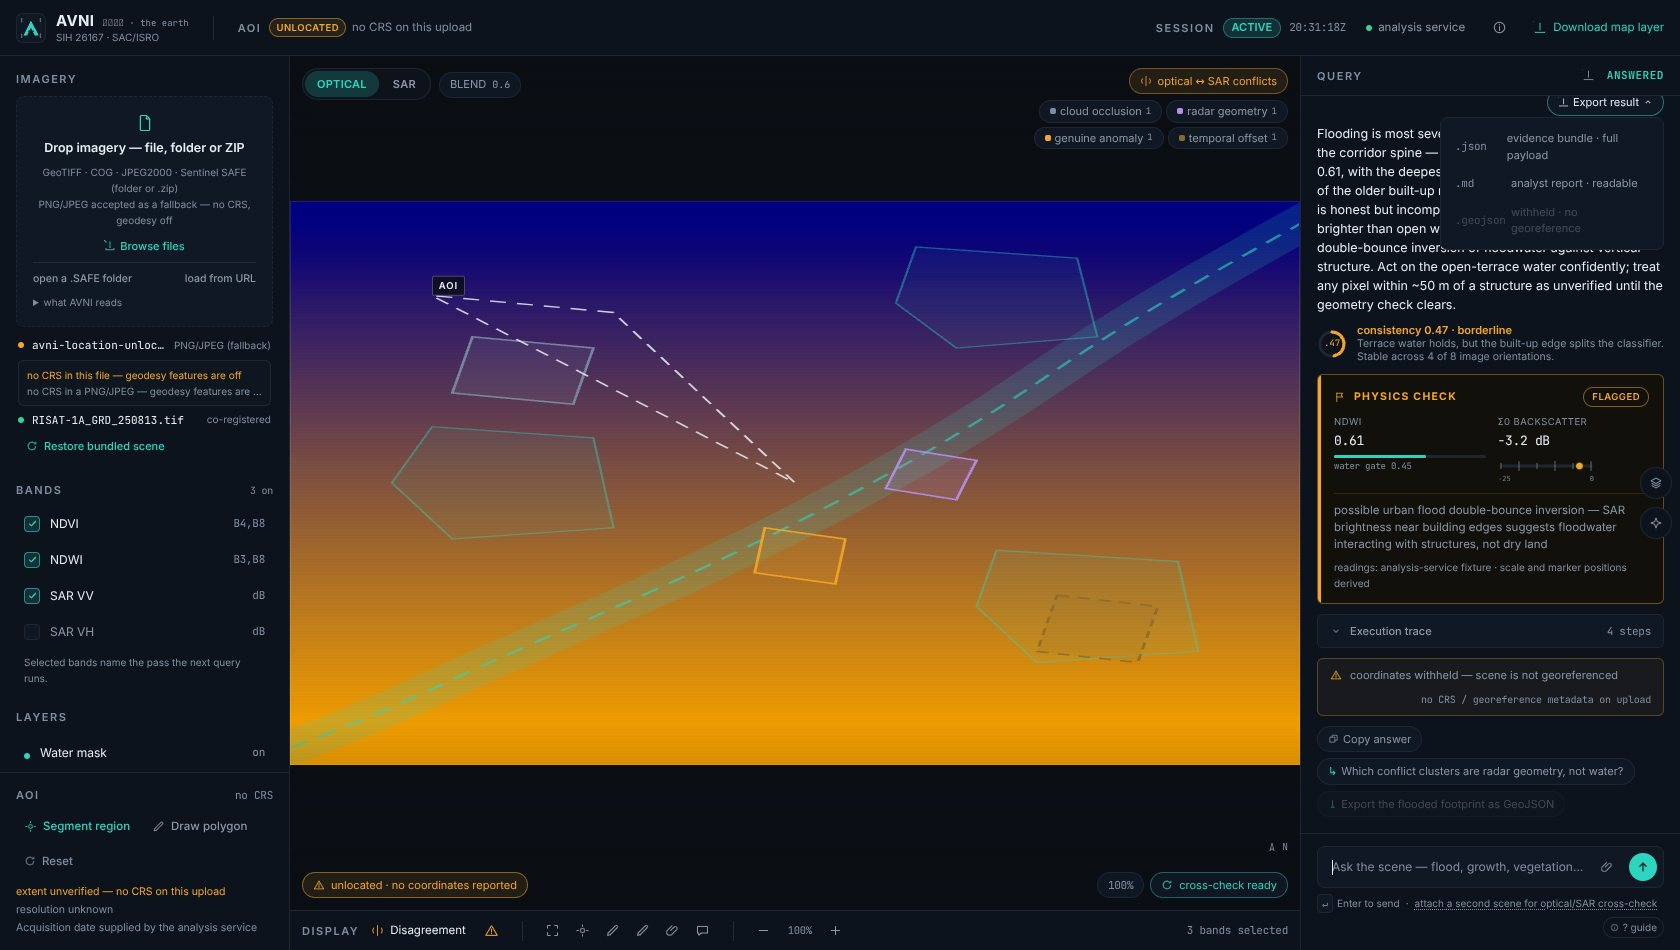
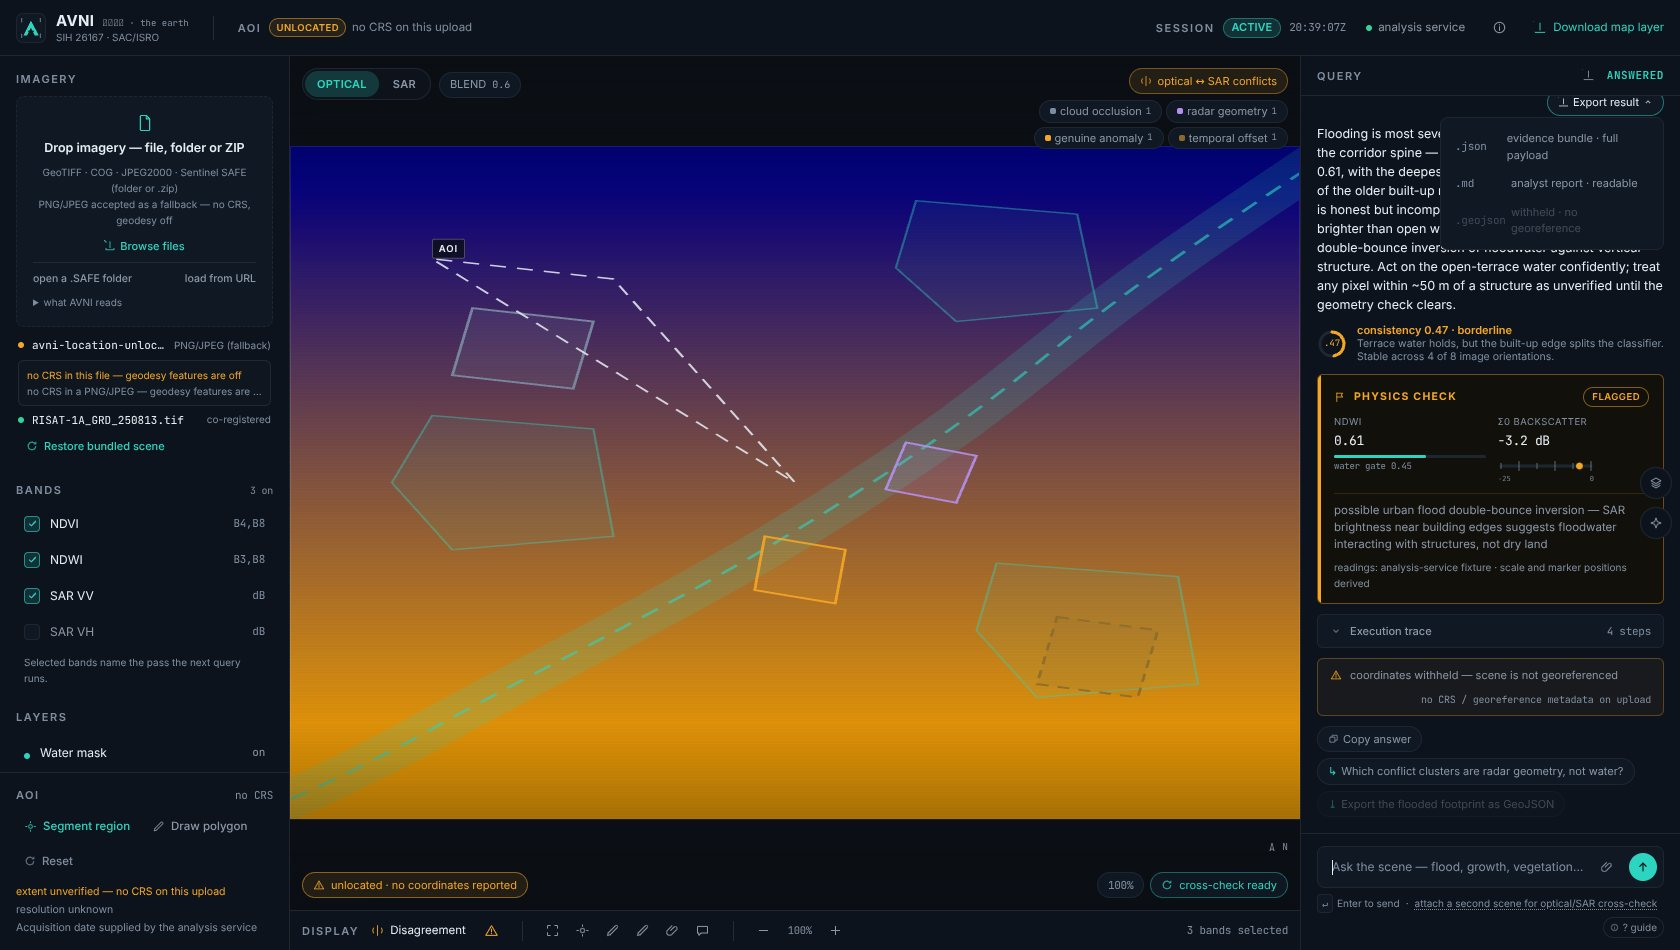
sweep: the viewer and its exports now describe the scene that is on screen
Same question as the last commit — does this product describe the scene the
analyst is looking at? — asked of the viewer itself. Two more defects:

- the sheet kept the bundled fixture's 1.79:1 aspect and the scale bar the
  bundled 22 km extent. A 32x24 upload over a 0.49 km footprint was stretched
  into that rectangle and the bar still read "1 km" across a half-kilometre
  scene. The sheet now takes the aspect of the registered raster and the bar
  is drawn from the registered extent: sheet 1010x758 (1.333), bar
  99 px x 0.5 m/px = 50 m, labelled 50 m.
- the evidence bundle reported ground_sample_distance 0.4 m/px for a scene
  the console was showing as 16 m/px: gsdLabel(geo.extent) fell back to the
  bundled pixel grid for the pixel count. The bundle now echoes the scene's
  own raster, measures the GSD on it, and reports null with a reason when the
  raster size is not stated.

The sheet fix briefly introduced a crash of its own — an unlocated scene
carries extent: null and the scale-bar maths ran before its georef gate.
verify-location caught it inside the pass; extentKm/groundSampleMetres now
treat a null extent or raster as "not stated", with unit tests pinning it.

Coverage: two unit tests on exportAnswerJSON (GSD follows the given raster,
and says so when there is none) plus one on the null-extent maths, and four
new browser checks in verify-location that read the sheet rect, the bar's
[…]

diff --git a/src/lib/export.test.js b/src/lib/export.test.js
@@ -1,5 +1,5 @@
 import { beforeAll, beforeEach, describe, expect, it } from 'vitest';
-import { SCENE_GEO, UNLOCATED_GEO, aoiCentroid } from './geo.js';
+import { SCENE_GEO, SCENE_RASTER, UNLOCATED_GEO, aoiCentroid, gsdLabel } from './geo.js';
 import {
   exportAnswerGeoJSON,
   exportAnswerJSON,
@@ -59,7 +59,7 @@ const CENTROID = aoiCentroid(AOI);
 
 describe('evidence bundle (JSON)', () => {
   it('withholds coordinates when the scene has no CRS', async () => {
-    exportAnswerJSON(flood(), UNLOCATED_GEO, CENTROID, AOI);
+    exportAnswerJSON(flood(), UNLOCATED_GEO, CENTROID, AOI, SCENE_RASTER);
     expect(lastFilename).toMatch(/^avni_result_.*\.json$/);
     const text = await lastText();
     const bundle = JSON.parse(text);
@@ -73,7 +73,7 @@ describe('evidence bundle (JSON)', () => {
   });
 
   it('writes coordinates, UTM and the derived AOI area when georeferenced', async () => {
-    exportAnswerJSON(flood(), SCENE_GEO, CENTROID, AOI);
+    exportAnswerJSON(flood(), SCENE_GEO, CENTROID, AOI, SCENE_RASTER);
     const bundle = JSON.parse(await lastText());
     expect(bundle.geodetic.withheld).toBeUndefined();
     expect(bundle.geodetic.area_ha).toBe(4.7);
@@ -86,8 +86,29 @@ describe('evidence bundle (JSON)', () => {
     expect(bundle.scene.ground_sample_distance).toBe('16 m/px');
   });
 
-  it('never carries a gate that disagrees with the verdict', async () => {
+  it('measures the ground sample distance on the raster of the scene it exports', async () => {
+    // a 32 x 24 upload: the bundled raster size would give 0.4 m/px against the
+    // 16 m/px the console shows for the same extent
+    const shifted = { ...SCENE_GEO, extent: { minLat: 12.99, maxLat: 12.9965, minLon: 77.73, maxLon: 77.7345 } };
+    const small = { width: 32, height: 24 };
+    exportAnswerJSON(flood(), shifted, aoiCentroid(AOI, shifted), AOI, small);
+    const bundle = JSON.parse(await lastText());
+    expect(bundle.scene.raster).toEqual({ width: 32, height: 24 });
+    expect(bundle.scene.ground_sample_distance).toBe(gsdLabel(shifted.extent, small));
+    expect(bundle.scene.ground_sample_distance).not.toBe(gsdLabel(shifted.extent, SCENE_RASTER));
+    // extent / pixels is only meaningful with the pixels
+    expect(bundle.scene.ground_sample_distance_source).toMatch(/extent \/ raster pixels/);
+  });
+
+  it('says so instead of inventing a GSD when the raster size is unknown', async () => {
     exportAnswerJSON(flood(), SCENE_GEO, CENTROID, AOI);
+    const bundle = JSON.parse(await lastText());
+    expect(bundle.scene.ground_sample_distance).toBeNull();
+    expect(bundle.scene.ground_sample_distance_source).toMatch(/did not declare a raster size/);
+  });
+
+  it('never carries a gate that disagrees with the verdict', async () => {
+    exportAnswerJSON(flood(), SCENE_GEO, CENTROID, AOI, SCENE_RASTER);
     const bundle = JSON.parse(await lastText());
     expect(bundle.consistency.gate).toBe(ABSTAIN_GATE);
     expect(bundle.consistency.abstained).toBe(
@@ -97,7 +118,7 @@ describe('evidence bundle (JSON)', () => {
   });
 
   it('ships the provenance of every class of number', async () => {
-    exportAnswerJSON(flood(), SCENE_GEO, CENTROID, AOI);
+    exportAnswerJSON(flood(), SCENE_GEO, CENTROID, AOI, SCENE_RASTER);
     const bundle = JSON.parse(await lastText());
     expect(bundle.provenance.derived.scale_bar).toMatch(/one measurement/);
     expect(bundle.provenance.fixture.answer_text).toMatch(/answer bank/);

diff --git a/src/components/Viewer.jsx b/src/components/Viewer.jsx
@@ -19,6 +19,7 @@ import {
   fmtLon,
   gsdLabel,
   isGeoreferenced,
+  SCENE_ASPECT,
   scaleBar,
   sheetSize,
   toGeo
@@ -320,7 +321,13 @@ export default function Viewer() {
   // inside the viewer. Imagery is drawn *fill* into it, so a mask at u=0.3
   // sits on the same pixels as the lat/lon computed from u=0.3 — and the
   // optical and SAR rasters (different pixel sizes) land on the same grid.
-  const sheet = useMemo(() => sheetSize(box.w, box.h), [box.w, box.h]);
+  // The aspect belongs to the scene that is on screen: an upload used to be
+  // stretched into the bundled fixture's rectangle.
+  const aspect = useMemo(() => {
+    const r = opticalFile?.raster;
+    return r?.width > 0 && r?.height > 0 ? r.width / r.height : SCENE_ASPECT;
+  }, [opticalFile?.raster]);
+  const sheet = useMemo(() => sheetSize(box.w, box.h, aspect), [box.w, box.h, aspect]);
   const sheetRef = useRef(sheet);
 
   const analyzing = queries.some((q) => q.status === 'analyzing');
@@ -486,7 +493,13 @@ export default function Viewer() {
   const inv = 1 / view.z;
 
   // Scale bar: drawn length and labelled distance are the same measurement.
-  const bar = useMemo(() => scaleBar({ sheetWidthPx: sheet.w, zoom: view.z }), [sheet.w, view.z]);
+  // The bar is drawn from the *scene's* extent: with the bundled footprint as a
+  // default it stayed honest only until you uploaded something 45x smaller,
+  // where it still claimed 1 km across a 0.5 km scene.
+  const bar = useMemo(
+    () => (georef ? scaleBar({ extent: sceneGeo.extent, sheetWidthPx: sheet.w, zoom: view.z }) : null),
+    [georef, sceneGeo.extent, sheet.w, view.z]
+  );
 
   const closeAoi = (points) => {
     const cleaned = points && points.length ? dedupeRing(points) : points;
@@ -982,13 +995,13 @@ export default function Viewer() {
               </span>
               <span
                 className="ml-1 hidden items-end gap-1 xl:flex"
-                title={`scale bar · ${Math.round(view.z * 100)}% zoom · 1 px = ${(bar.kmPerPx * 1000).toFixed(1)} m`}
+                title={`scale bar · ${Math.round(view.z * 100)}% zoom · 1 px = ${(bar?.kmPerPx * 1000).toFixed(1)} m`}
               >
                 <span
                   className="border-b border-l border-r border-t2/70"
-                  style={{ height: 5, width: `${bar.px}px` }}
+                  style={{ height: 5, width: `${bar?.px}px` }}
                 />
-                <span className="data-mono text-t3">{bar.label}</span>
+                <span className="data-mono text-t3">{bar?.label}</span>
               </span>
             </>
           ) : (

diff --git a/src/lib/export.js b/src/lib/export.js
@@ -57,8 +57,12 @@ const geodeticBlock = (payload, geo, centroid, aoiPoints) => {
   };
 };
 
-export function exportAnswerJSON(payload, geo, centroid, aoiPoints) {
+export function exportAnswerJSON(payload, geo, centroid, aoiPoints, raster = null) {
   const georef = isGeoreferenced(geo);
+  // Ground sample distance is extent / *this scene's* raster. Left to default it
+  // fell back to the bundled raster size, so a scene whose own grid is 32 x 24
+  // exported a GSD 40x too fine (0.4 m/px against the 16 m/px on screen).
+  const gsdKnown = georef && raster?.width > 0 && raster?.height > 0;
   // Built explicitly rather than spread: the withheld block can never be
   // overwritten by a stray field from the payload.
   const bundle = {
@@ -78,8 +82,13 @@ export function exportAnswerJSON(payload, geo, centroid, aoiPoints) {
     georeference: georefBlock(geo),
     geodetic: geodeticBlock(payload, geo, centroid, aoiPoints),
     scene: {
-      ground_sample_distance: georef ? gsdLabel(geo.extent) : null,
-      ground_sample_distance_source: PROVENANCE.derived.ground_sample_distance
+      raster: gsdKnown ? { width: raster.width, height: raster.height } : null,
+      ground_sample_distance: gsdKnown ? gsdLabel(geo.extent, raster) : null,
+      ground_sample_distance_source: gsdKnown
+        ? PROVENANCE.derived.ground_sample_distance
+        : georef
+          ? 'not reported: this scene did not declare a raster size'
+          : null
     },
     provenance: PROVENANCE,
     followups: payload.followups

diff --git a/src/lib/geo.js b/src/lib/geo.js
@@ -58,18 +58,22 @@ export const SCENE_EXTENT = {
 };
 
 export function extentKm(extent = SCENE_EXTENT) {
-  const midLat = (extent.minLat + extent.maxLat) / 2;
+  // null is what an unlocated scene carries in its `extent` field: treat it as
+  // "no extent given" rather than crashing on extent.minLat
+  const e = extent || SCENE_EXTENT;
+  const midLat = (e.minLat + e.maxLat) / 2;
   return {
-    widthKm: ((extent.maxLon - extent.minLon) * metresPerDegreeLon(midLat)) / 1000,
-    heightKm: ((extent.maxLat - extent.minLat) * metresPerDegreeLat(midLat)) / 1000
+    widthKm: ((e.maxLon - e.minLon) * metresPerDegreeLon(midLat)) / 1000,
+    heightKm: ((e.maxLat - e.minLat) * metresPerDegreeLat(midLat)) / 1000
   };
 }
 
 // Ground sample distance in metres per pixel, per axis. Product of the extent
 // and the raster — never a typed-in constant.
 export function groundSampleMetres(extent = SCENE_EXTENT, raster = SCENE_RASTER) {
+  const r = raster?.width > 0 && raster?.height > 0 ? raster : SCENE_RASTER;
   const { widthKm, heightKm } = extentKm(extent);
-  return { x: (widthKm * 1000) / raster.width, y: (heightKm * 1000) / raster.height };
+  return { x: (widthKm * 1000) / r.width, y: (heightKm * 1000) / r.height };
 }
 
 export function gsdLabel(extent = SCENE_EXTENT, raster = SCENE_RASTER) {

diff --git a/src/lib/geo.test.js b/src/lib/geo.test.js
@@ -313,6 +313,20 @@ describe('GeoJSON exports', () => {
     expect(footprint.properties.aoi_area_km2).toBeCloseTo(aoiAreaKm2(AOI, shifted), 3);
   });
 
+  it('treats a null extent or raster as "not stated", never as a crash', () => {
+    // an unlocated scene carries extent: null; the scale bar is only rendered
+    // for a georeferenced scene, but the maths must not throw before that gate
+    expect(() => extentKm(null)).not.toThrow();
+    expect(extentKm(null)).toEqual(extentKm(SCENE_EXTENT));
+    expect(groundSampleMetres(SCENE_EXTENT, { width: 0, height: 0 })).toEqual(
+      groundSampleMetres(SCENE_EXTENT, SCENE_RASTER)
+    );
+    expect(gsdLabel(null, null)).toBe(gsdLabel(SCENE_EXTENT, SCENE_RASTER));
+    expect(scaleBar({ extent: null, sheetWidthPx: 900, zoom: 1 }).label).toBe(
+      scaleBar({ extent: SCENE_EXTENT, sheetWidthPx: 900, zoom: 1 }).label
+    );
+  });
+
   it('respects the layer switches', () => {
     const fc = buildLayerGeoJSON({ water: { on: false }, builtin: { on: false } }, [], SCENE_GEO);
     expect(fc.features).toHaveLength(0);

diff --git a/src/components/Answer.jsx b/src/components/Answer.jsx
@@ -15,7 +15,7 @@ import { exportAnswerGeoJSON, exportAnswerJSON, exportAnswerMarkdown } from '../
 import { useEscape } from '../lib/hooks.js';
 
 function ExportMenu({ payload, centroid, georef, aoiPoints }) {
-  const { toast, sceneGeo } = useApp();
+  const { toast, sceneGeo, opticalFile } = useApp();
   const [open, setOpen] = useState(false);
   const wrapRef = useRef(null);
   const triggerRef = useRef(null);
@@ -37,7 +37,9 @@ function ExportMenu({ payload, centroid, georef, aoiPoints }) {
   const item =
     'flex w-full items-center gap-2 rounded px-2 py-1.5 text-left text-[11px] text-t2 transition-colors hover:bg-white/5 hover:text-t1';
   const fire = (fn, msg) => () => {
-    fn(payload, sceneGeo, centroid, aoiPoints);
+    // the raster travels with the export: extent / pixels is only true for the
+    // scene that is on screen
+    fn(payload, sceneGeo, centroid, aoiPoints, opticalFile?.raster || null);
     toast(msg);
     setOpen(false);
   };

diff --git a/AUDIT.md b/AUDIT.md
@@ -241,6 +241,19 @@ Both now take the footprint they are given, all the way down through
 `uvToGeo`/`pointsToRing`/`aoiRing`, and `verify-location.mjs` reads the
 exported bytes back: `7 features · lon 77.7299–77.7349 · AOI Whitefield`.
 
+Two more came out of the same question — *does this product describe the scene
+that is on screen?* — asked of the viewer itself:
+
+| Defect | How it showed up | Root cause | Fix |
+| --- | --- | --- | --- |
+| The **sheet kept the bundled aspect ratio** and the **scale bar the bundled extent**: a 32 × 24 upload over a 0.49 km footprint was stretched into the fixture's 1.79:1 rectangle and the bar still read `1 km` across a 0.5 km scene | upload a 16 m/px GeoTIFF: rail `16 m/px`, sheet 1010 × 564 (1.792), bar `1 km` | `sheetSize(box.w, box.h)` and `scaleBar({ sheetWidthPx, zoom })` both defaulted to the bundled scene, exactly as the exports did | the sheet takes the aspect of the registered raster and the bar is drawn from the registered extent — after: sheet 1010 × 758 (1.333), bar `99 px × 0.5 m/px = 50 m`, labelled `50 m` |
+| The **evidence bundle reported a GSD 40 × too fine**: `0.4 m/px` for a scene the console itself was showing as `16 m/px` | export the JSON bundle with a 32 × 24 upload and read `scene.ground_sample_distance` | `gsdLabel(geo.extent)` fell back to `SCENE_RASTER` — the bundled pixel grid — for the pixel count | the bundle echoes the scene's own `raster` and measures the GSD on it; with no raster stated it reports `null` and says why |
+
+(The first of those fixes briefly introduced a crash of its own — an unlocated
+scene carries `extent: null`, and the scale-bar maths ran before its `georef`
+gate. `verify-location` caught it within the pass; `extentKm`/`groundSampleMetres`
+now treat a null extent or raster as "not stated" and unit tests pin that.)
+
 A fifth defect came out of feeding the console rubbish on purpose: two of the
 refusal paths (`the browser could not decode this image`, `this archive does not
 look like a Sentinel SAFE product`) never said *which* file had been refused.

diff --git a/README.md b/README.md
@@ -115,7 +115,7 @@ ships with `@sparticuz/chromium`, take the target from `AVNI_URL` (default
 | `npm run lint` | eslint (flat config) — correctness rules only: undefined identifiers, dropped updater side effects, stale hook closures, unsafe optional chaining |
 | `npm run verify:console` | 26 end-to-end checks: gate arithmetic, scale-bar truth, draw-mode click isolation, scroll behaviour, export actions (including the exported GeoJSON's ring), toggle toasts, the unlocated upload path, responsive shell |
 | `npm run verify:zoom` | the point under the cursor survives zoom and pan; scale bar matches the ground; drawers and phone overflow |
-| `npm run verify:location` | place names resolve and recompute; a CRS-less upload withholds everywhere, including the bytes inside the JSON bundle; an undecodable file is refused outright |
+| `npm run verify:location` | place names resolve and recompute; a CRS-less upload withholds everywhere, including the bytes inside the JSON bundle; an undecodable file is refused outright; and on a georeferenced upload the AOI name, the sheet aspect, the scale bar, the GSD in the evidence bundle and the exported GeoJSON all describe *that* scene |
 | `npm run verify:segment` | segmentation marking: every click on the scene marks a region, the tolerance slider grows the same seed monotonically, shift adds, and Enter turns the outline into the AOI |
 | `npm run verify:a11y` | axe-core over the shell, mid-answer, the guide dialog and the phone drawer; every visible control has an accessible name |
 | `npm run verify:features` | the four imagery containers end to end (GeoTIFF, COG over HTTP, JPEG2000, Sentinel SAFE), the second-epoch swipe (your file is what is compared) plus the zoom/segmentation promises |
